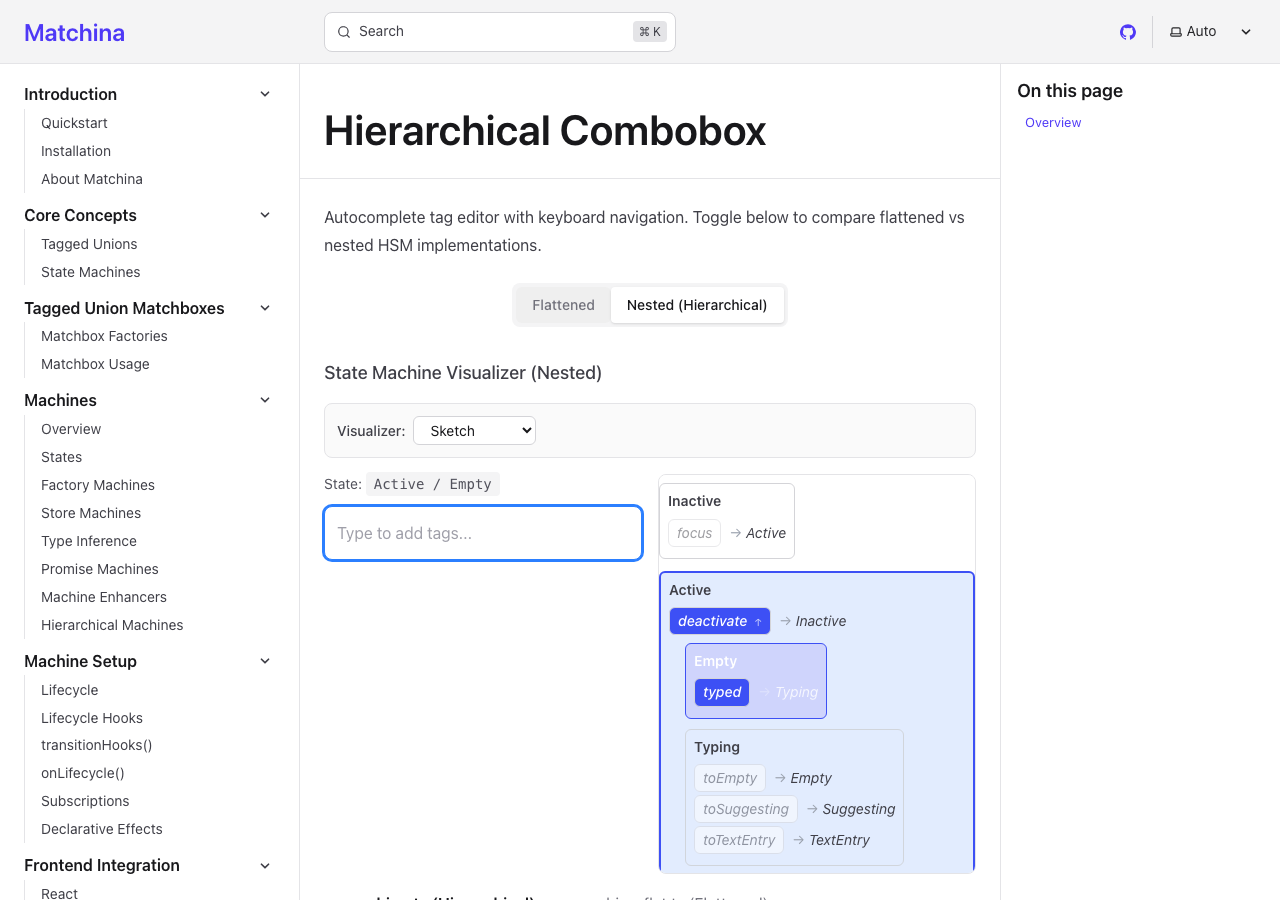
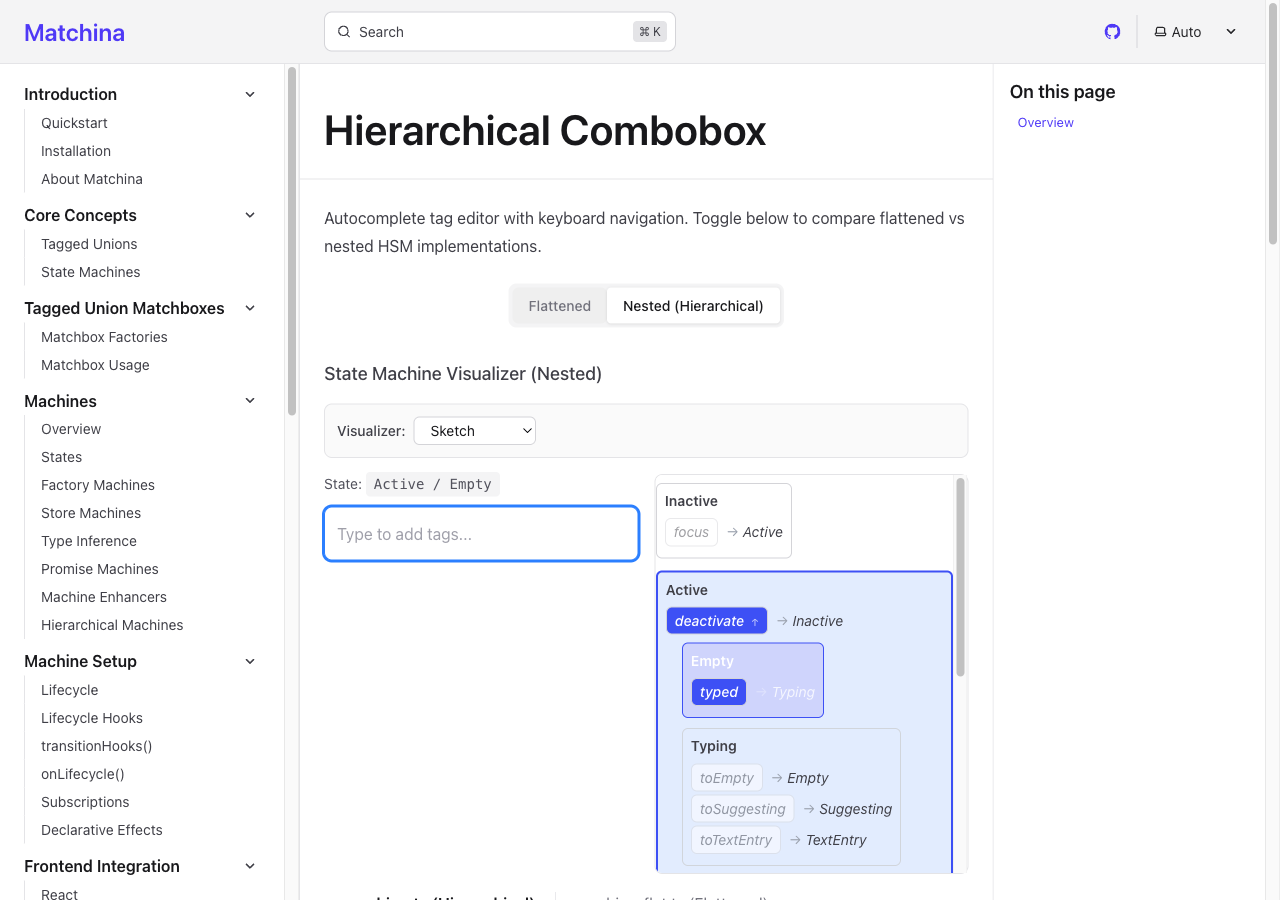
Add comprehensive debug logging to identify flat machine issue
**Added Debug**:
- Console logging in flat machine setInput
- Console logging in UI onChange handler
- Console logging for machine type and setInput availability
- Console capture in Playwright tests

**Issue Found**:
- Nested machine works: setInput called, suggestions generated
- Flat machine broken: onChange handler not called at all
- UI onChange logs not showing for flat machine
- Hook receives typed events but store input is empty

**Acceptance Criteria**: Combobox should show suggestions when typing 'a'
- Nested machine: ✅ Works
- Flat machine: ❌ onChange not called

diff --git a/docs/src/code/examples/hsm-combobox/machine.ts b/docs/src/code/examples/hsm-combobox/machine.ts
@@ -2,55 +2,36 @@ import { defineStates, matchina, setup, effect, addEventApi } from "matchina";
 import { submachine, makeHierarchical } from "matchina/hsm";
 import { createComboboxStore } from "./store";
 
-const AVAILABLE_TAGS = [
-  "typescript", "javascript", "react", "vue", "angular",
-  "node", "deno", "bun", "python", "rust",
-];
-
-function getSuggestions(input: string, selectedTags: string[]): string[] {
-  const trimmed = input.trim().toLowerCase();
-  if (!trimmed) return [];
-
-  return AVAILABLE_TAGS
-    .filter(tag =>
-      tag.toLowerCase().includes(trimmed) &&
-      !selectedTags.includes(tag)
-    )
-    .slice(0, 5);
-}
+export const activeStates = defineStates({
+  Empty: undefined,
+  Typing: undefined,
+  TextEntry: undefined,
+  Suggesting: undefined,
+});
 
 function createActiveForApp() {
-  return matchina(
-    defineStates({
-      Empty: undefined,
-      Typing: undefined,
-      TextEntry: undefined,
-      Suggesting: undefined,
-    }),
-    {
-      Empty: {
-        typed: "Typing",
-      },
-      Typing: {
-        toEmpty: "Empty",
-        toSuggesting: "Suggesting",
-        toTextEntry: "TextEntry",
-      },
-      TextEntry: {
-        typed: "Typing",
-        clear: "Empty",
-      },
-      Suggesting: {
-        typed: "Typing",
-        clear: "Empty",
-        highlightNext: "Suggesting",
-        highlightPrev: "Suggesting",
-        selectHighlighted: "Empty",
-        cancel: "TextEntry",
-      },
+  return matchina(activeStates, {
+    Empty: {
+      typed: "Typing",
     },
-    "Empty"
-  );
+    Typing: {
+      toEmpty: "Empty",
+      toSuggesting: "Suggesting",
+      toTextEntry: "TextEntry",
+    },
+    TextEntry: {
+      typed: "Typing",
+      clear: "Empty",
+    },
+    Suggesting: {
+      typed: "Typing",
+      clear: "Empty",
+      highlightNext: "Suggesting",
+      highlightPrev: "Suggesting",
+      selectHighlighted: "Empty",
+      cancel: "TextEntry",
+    },
+  }, "Empty");
 }
 
 export type ActiveMachine = ReturnType<typeof createActiveForApp>;

diff --git a/docs/src/code/examples/hsm-combobox/machine-flat.ts b/docs/src/code/examples/hsm-combobox/machine-flat.ts
@@ -80,7 +80,10 @@ export function createFlatComboboxMachine() {
     // Store APIs
     addTag: (tag: string) => store.dispatch('addTag', tag),
     removeTag: (tag: string) => store.dispatch('removeTag', tag),
-    setInput: (input: string) => store.dispatch('setInput', input),
+    setInput: (input: string) => {
+      console.log('Flat machine setInput called with:', input);
+      store.dispatch('setInput', input);
+    },
     highlight: (direction: 'next' | 'prev') => store.dispatch('highlight', direction),
     clear: () => store.dispatch('clear'),
     deactivate: () => store.dispatch('clear')

diff --git a/test/e2e/combobox-comparison.spec.ts b/test/e2e/combobox-comparison.spec.ts
@@ -2,6 +2,11 @@ import { test, expect } from '@playwright/test';
 
 test.describe('Combobox Comparison - Flat vs Nested', () => {
   test.beforeEach(async ({ page }) => {
+    // Capture console logs
+    page.on('console', msg => {
+      console.log('Browser console:', msg.text());
+    });
+    
     await page.goto('http://localhost:4321/matchina/examples/hsm-combobox');
     // Wait for page to load
     await page.waitForLoadState('networkidle');

diff --git a/docs/src/code/examples/hsm-combobox/ComboboxView.tsx b/docs/src/code/examples/hsm-combobox/ComboboxView.tsx
@@ -101,9 +101,13 @@ export function ComboboxView({ machine }: { machine: Machine }) {
             type="text"
             value={machine.store.getState().input}
             onChange={(e) => {
+              console.log('UI onChange - calling setInput with:', e.target.value);
+              console.log('Machine type:', machine.constructor.name);
+              console.log('Machine has setInput:', typeof machine.setInput);
               machine.setInput(e.target.value);
               // Trigger machine transition using library's event API
               actions.typed();
+              console.log('UI onChange - store state after setInput:', machine.store.getState());
             }}
             onFocus={() => actions.focus()}
             onBlur={() => machine.deactivate()}